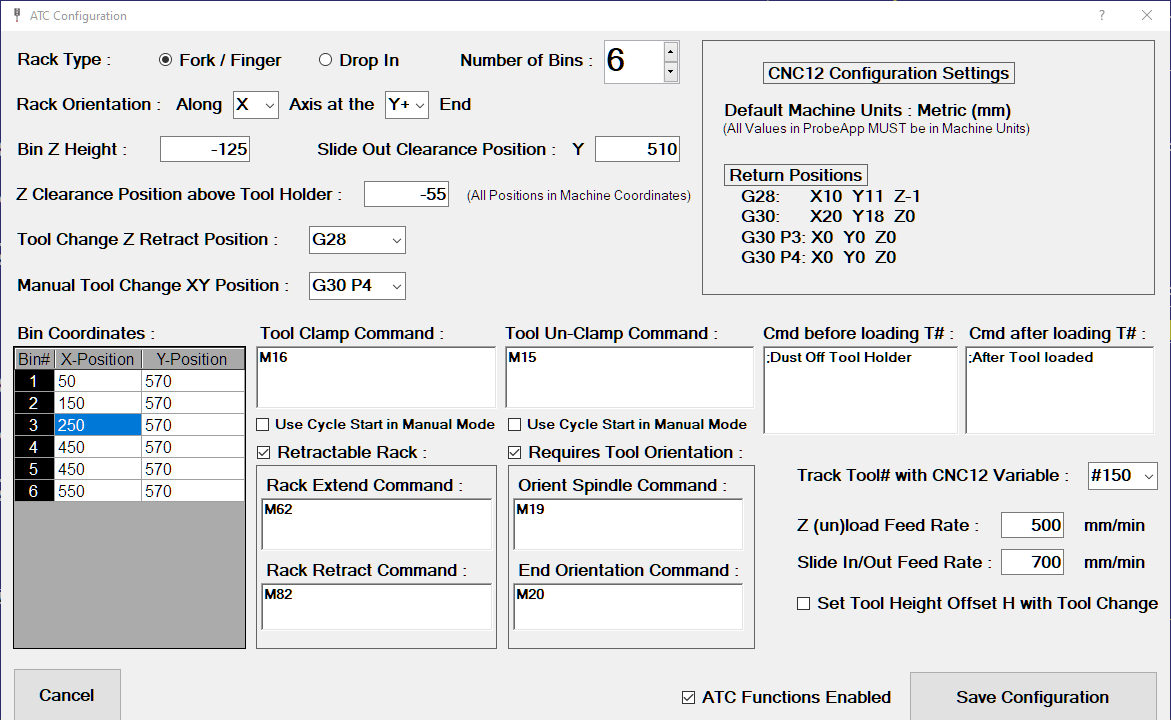
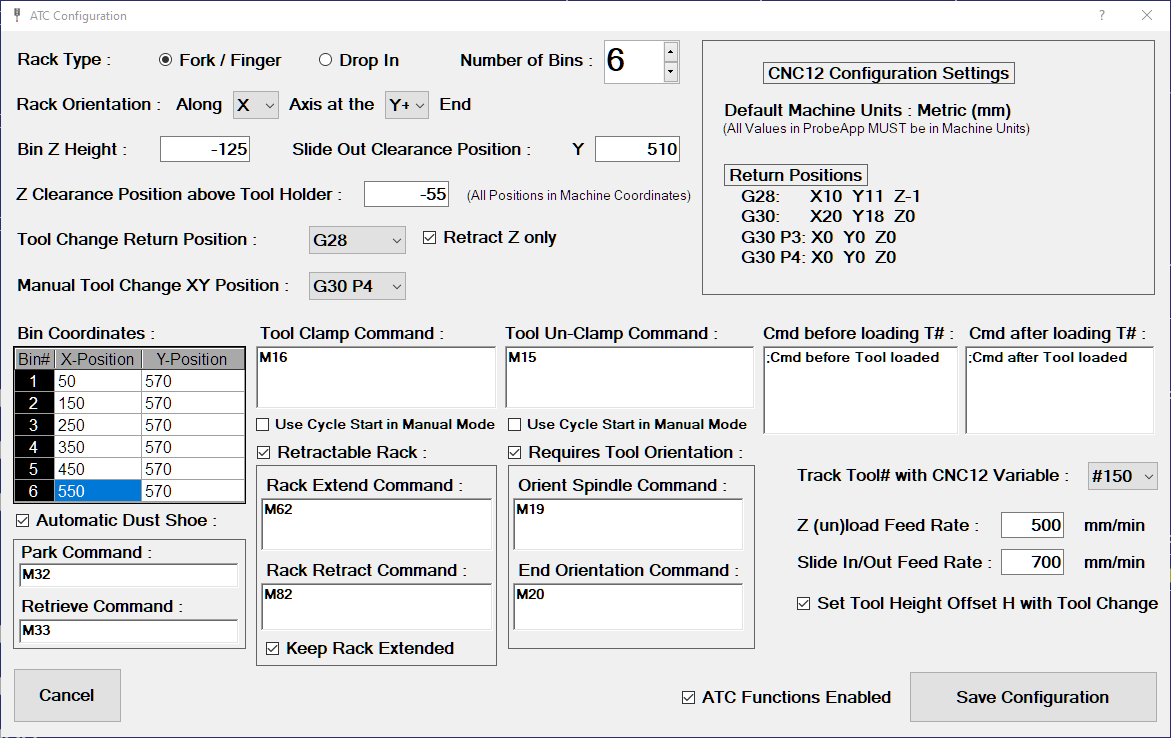
Doc Update for additional ATC Functions

diff --git a/docs/ATCsetup.md b/docs/ATCsetup.md
@@ -36,8 +36,24 @@ Press the **ATC Configuration** Button to open  the ATC-Configuration Screen.
 
 Fill out the configuration parameters. If you need Help with any of the Parameters, select the *?* on the top right of the Configuration Screen and then hoover with the *?* over the Input-field you need Help with and a Balloon Help Message will provide more information.
 
+### Automatic Dust Shoe
+If the Automatic Dust Shoe function is being used, the ATC-Function bar on the ProbeApp Tool Library Manager screen will display two addittional buttons to Park and Mount the Dust Shoe.
+
+**IMPORTANT!** Note that the **Load Tool** and **Unload Tool** buttons assume that there's no Dust Shoe mounted on the spindle. It's up to the operator to Park the Dust Shoe before loading/unloading a Tool within the Tool Library Manager.
+
+Also note that the commands to Park and Mount the Dust Shoe need to be added **manually** to the M6 Tool Change Macro mfunc6.mac. The sections of where these commands have to be added are clearly commented within the provided mfunc6.mac Template file.
+
+### Extendable Tool Rack
+An extendable Tool Rack of Type Fork/Finger can be configured in the standard way whewre spindle movement is being used to move the tool in and out of the tool holder. 
+
+Another option is to let the rack retract move pull the tool out of the tool holder and the rack extend move is pushing the tool into the rack holder. This requires less table space for a tool change as no additional space is needed for the spindle to slide the tool out of the extended rack. To configure this option, the **Slide Out Clearance Position** must be configured with the same machine coordinate position as the center line of the holder. Also the option **Keep Rack Extended** can NOT be used in this case.
+
+The standard behavior is that the rack is being extended and retracted for every tool load and unload. If it is preferred to leave the tool rack extended
+
+### Requires Tool Orientation
 If the Spindle requires Tool Orientation, check the box **Requires Tool Orientation** and enter the required commands.
 
+### ATC Function Enabled
 Make sure the check box **ATC Functions Enabled** is checked before Saving the Configuration. This check box allows to turn off the ATC functionallity if required for some reasons.
 
 ## 3. Bin# Assignment
